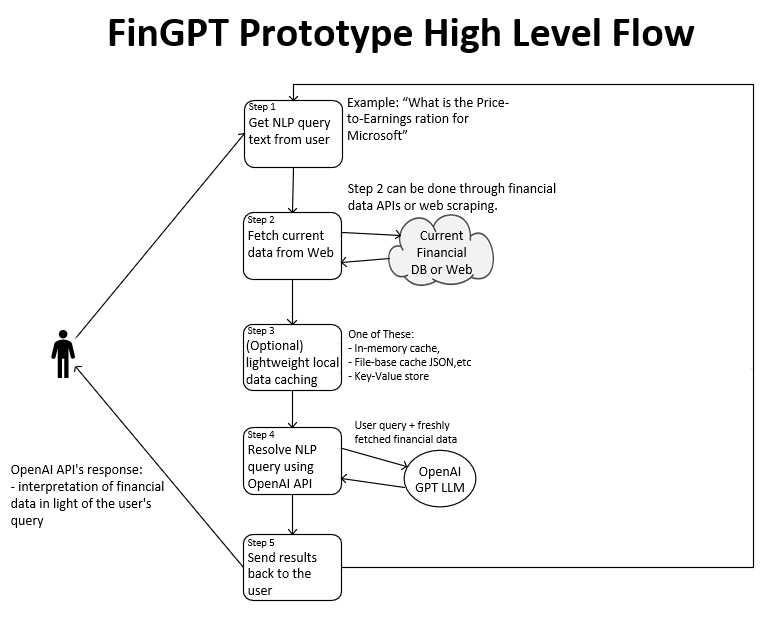
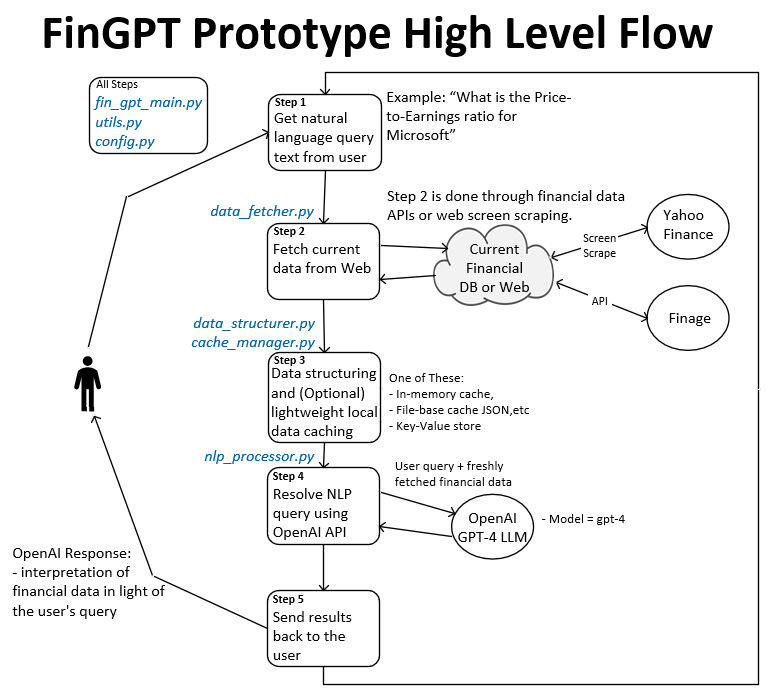
updated the high level flow diagram

diff --git a/GPT_Fin/FinGPT-Plan.html b/GPT_Fin/FinGPT-Plan.html
@@ -63,7 +63,8 @@
 
 </p>
 <ul>
-	<li>Get NLP query text from user: The user inputs a natural language query about financial information.
+	<li>Get natural language query from the user. Example What is the 
+	Price-to-Earnings ratio for Microsoft?
 	</li>
 	<li>Fetch current data from Web: The system retrieves the latest financial data from the internet using APIs or scraping techniques.
 
